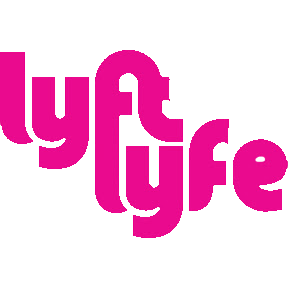
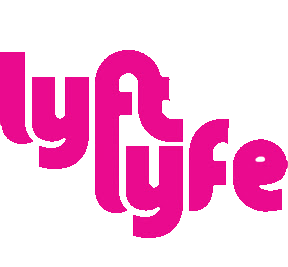
Cambio de imagen de fondo

diff --git a/css/main.css b/css/main.css
@@ -16,14 +16,7 @@
 
 body {
 	background-color: aquamarine;
-	/* background-image: url(../css/images/ciudad.jpg); */
-	/* background-repeat: no-repeat;  */
-	/* background-position: center;
-  background-size: cover;
-	text-align: center;
-	width: 100%;
-	height: 100%; */
-	
+	background-image: url("../css/images/city.jpg");
 }
 
 .country {
@@ -37,8 +30,21 @@ body {
 
 #lyfttransparent{
 	background-position: center;
-	height: 250px;
-	width: 250px;
+	height: 150px;
+	width: 150px;
+	position: absolute;
+  width: 200px;
+  top: 0;
+  left: 0;
+  right: 0;
+  bottom: 0;
+  margin: auto;
+}
+
+#centrador{
+  position: relative;
+  width: 200px;
+  height: 200px;
 }
 
 .lift{

diff --git a/view/inicio.html b/view/inicio.html
@@ -13,15 +13,10 @@
 <body>
   <!-- Opciones de inicio -->
   </header>
-  <div class="row">
-    <div class="col s1">
-    </div>
-    <div class="col-md-3 col-sm-12">
-        <img class="col s12" id="lyfttransparent" src="../css/images/lyftlifetransparent.png" alt="">
-    </div>
-    <div class="col s1">
-    </div>
-      
+  <div class="row" id="centrador">
+    <div class="col-sm-10 col-md-4">
+        <img class="col s12 img-responsive" id="lyfttransparent" src="../assets/img/life.png" alt="Life">
+    </div>      
   </div>
   
   <div class="row">

diff --git a/README.md b/README.md
@@ -1,6 +1,6 @@
 # 2. L Y F T
 
-![Inicio](https://user-images.githubusercontent.com/32379941/45060276-de718580-b064-11e8-9bba-371a1355bb3c.PNG)
+![Inicio](https://user-images.githubusercontent.com/32379941/45246305-33f89d00-b2c6-11e8-939f-c1ab593f4f65.PNG)
 
 >Desarrolla una web-app que replique el sitio de Lyft, en este reto deberás cumplir los pasos necesarios para que tu usuario pueda registrarse.
 
@@ -35,7 +35,7 @@ Una vez ingresado el número de teléfono se habilita el botón y al dar click d
 ***
 ### Producto
 
-![Inicio](https://user-images.githubusercontent.com/32379941/45060276-de718580-b064-11e8-9bba-371a1355bb3c.PNG)
+![Inicio](https://user-images.githubusercontent.com/32379941/45246305-33f89d00-b2c6-11e8-939f-c1ab593f4f65.PNG)
 ![Registro](assets/img/Login.PNG)
 ![Success](assets/img/success.PNG)
 
